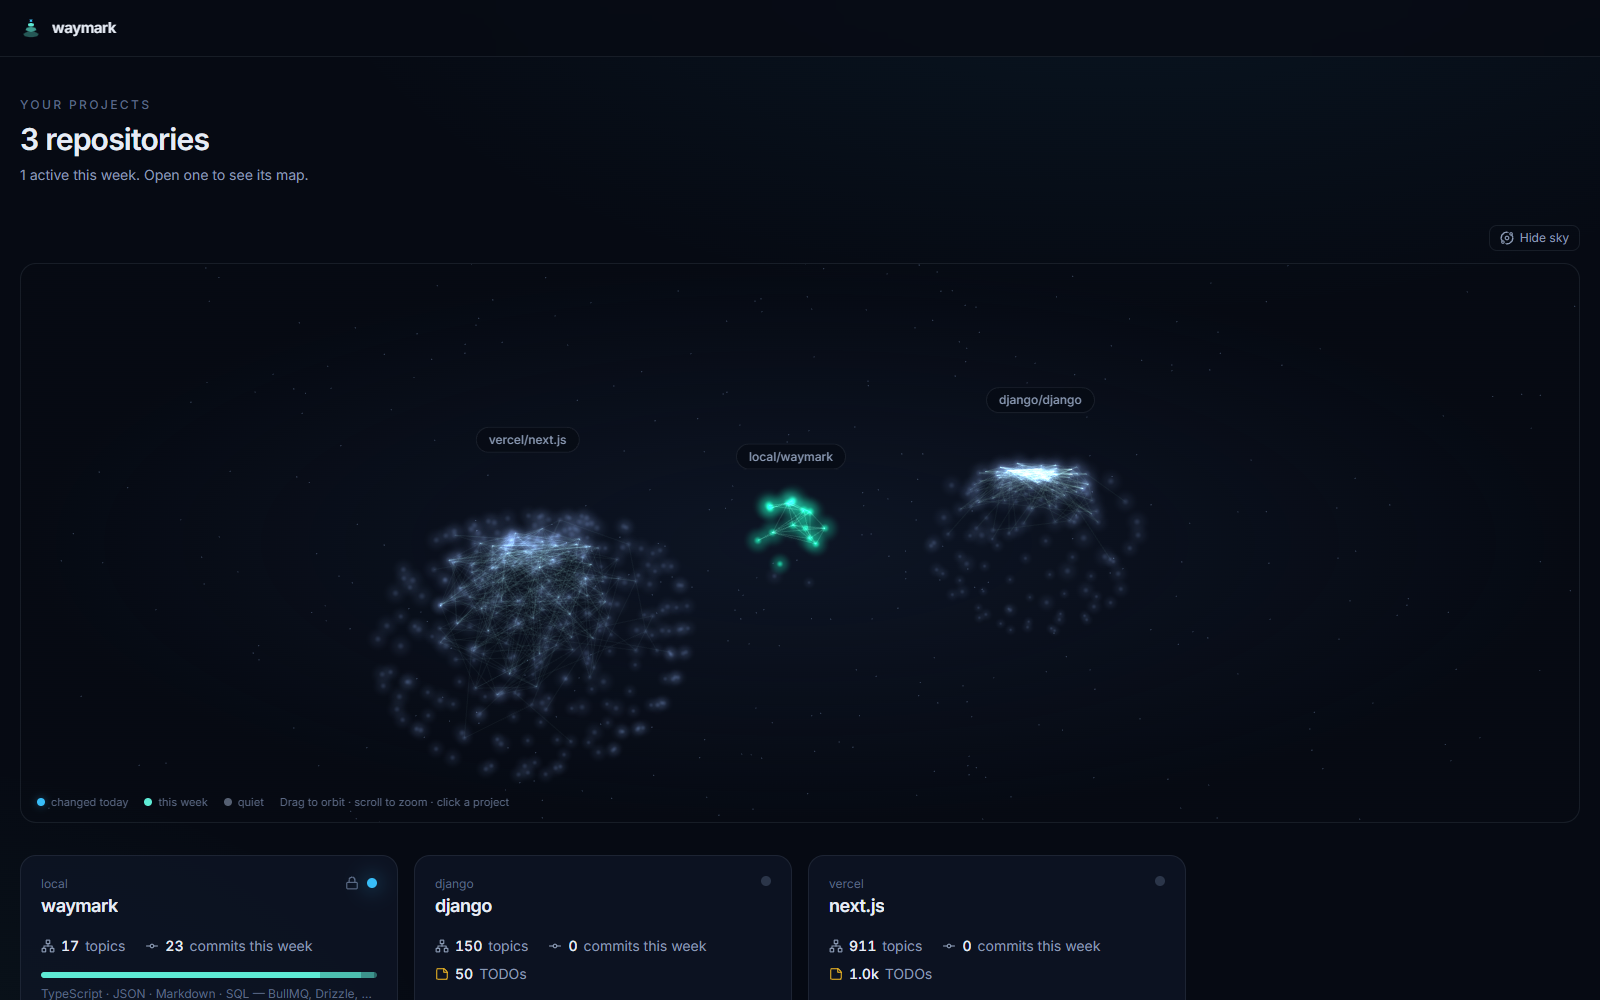
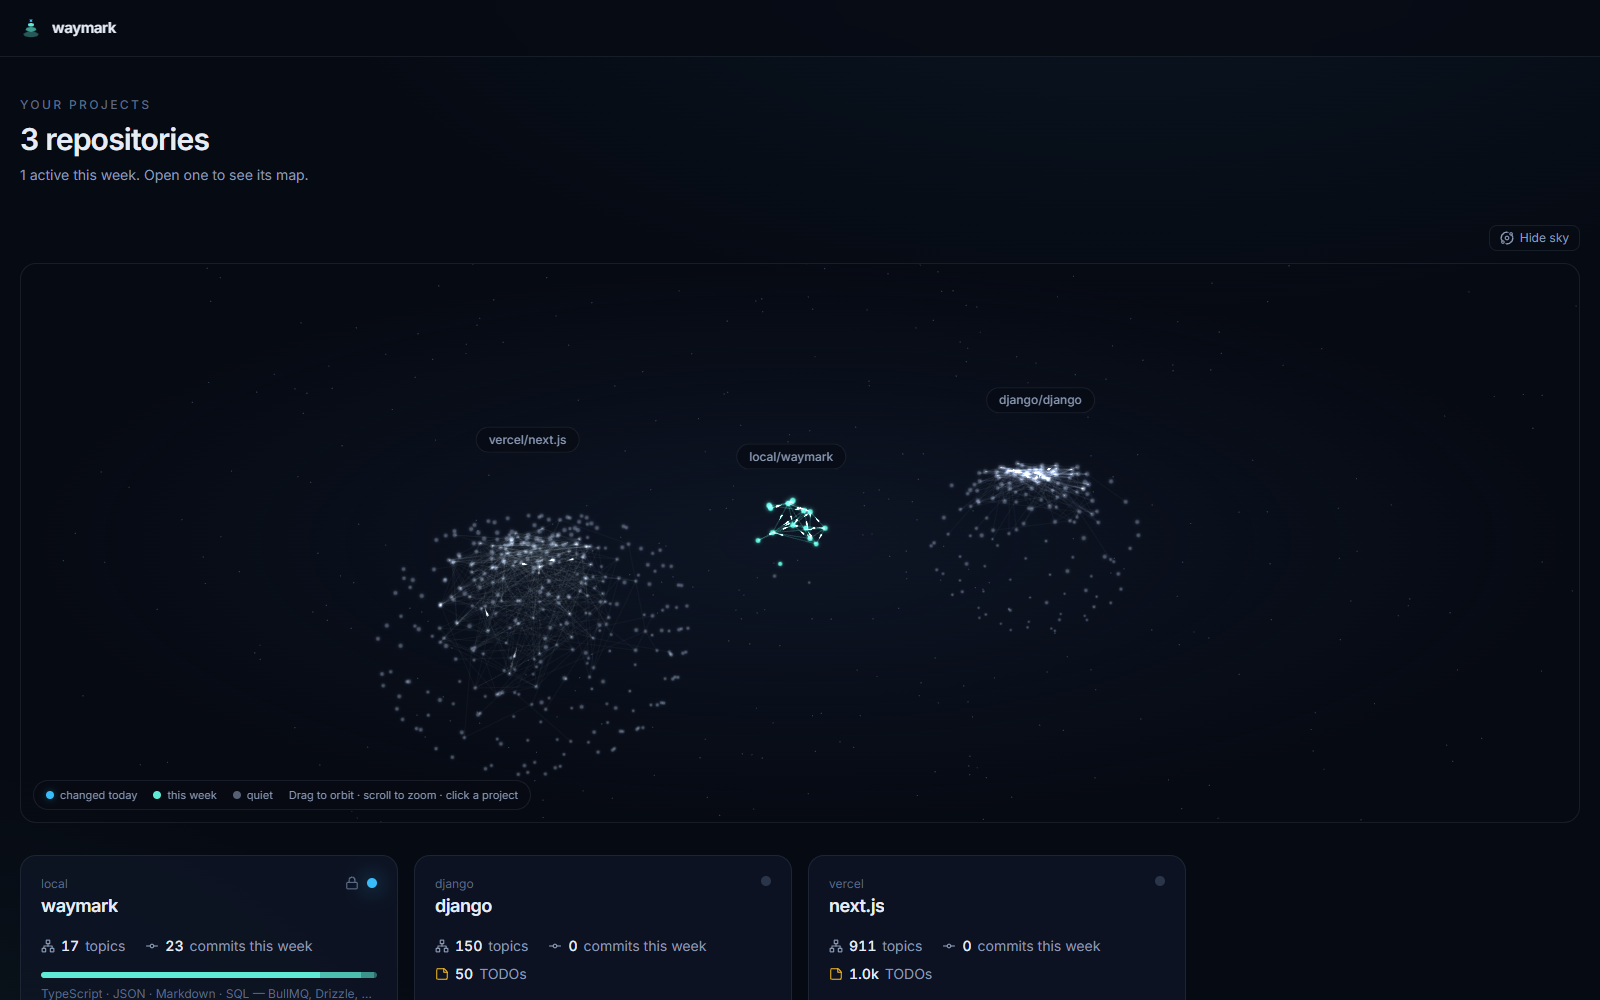
docs: describe the sky's signals and rendering

diff --git a/README.md b/README.md
@@ -62,7 +62,8 @@ reasoning behind each decision, is in [docs/ARCHITECTURE.md](docs/ARCHITECTURE.m
 | <img src="docs/images/map-django.png" alt="django/django: 150 AI-named topics grouped by directory, live import edges"> | <img src="docs/images/topic-panel.png" alt="Topic panel: AI summary, dependencies, TODOs, recent commits, files"> |
 
 The welcome screen shows every project as a constellation: one star per topic, glowing where you
-worked today or this week; drag to orbit, click a project to open its map.
+worked today or this week, with signals running along the imports from where work happened. Drag
+to orbit, click a project to open its map.
 
 Each project is a map: topics are nodes, imports are edges, and topics changed in the last day or
 week glow. Large repositories open as a handful of regions (packages, or directories inside one)
@@ -153,7 +154,7 @@ browser):
 
 | Quality gate | Value |
 |---|---|
-| Unit tests | 295 (no infrastructure required), incl. timed adversarial-input regressions |
+| Unit tests | 301 (no infrastructure required), incl. timed adversarial-input regressions |
 | Integration tests | 40 (real Postgres + Redis, in a separate `<db>_test` database; incl. failure recovery, index scheduling, topic building, budget across workers, dashboard read models) |
 | Type safety | `strict` + `noUncheckedIndexedAccess` + `exactOptionalPropertyTypes` |
 | Build step | none: Node runs the TypeScript sources directly |

diff --git a/docs/ARCHITECTURE.md b/docs/ARCHITECTURE.md
@@ -388,6 +388,11 @@ The layout is pure and deterministic (`constellation.ts`), so a project keeps it
 - **Stars** fill a ball evenly, largest at the inner part. Linked stars are drawn together by springs
   with a rest length, and a hub's pull is divided by its link count, so a topic that everything
   imports doesn't swallow its neighbours into one white blot.
+- **Signals** run along links as short streaks, from the end that changed most recently outward:
+  fast and bright where work happened today, calmer this week; a quiet project keeps up to 10
+  slow ones. Links take the colour of their ends, glowing where work is and fading into quiet.
+  Stars are crisp discs with a short glow, antialiased in the shader (no canvas supersampling),
+  sized by the screen's pixel ratio and capped so flying into a cluster never floods the screen.
 - **Labels** are real links positioned over their clusters every frame and pushed apart where they
   would overlap, so the sky is usable by keyboard and screen readers.
 - **Fallbacks:** without WebGL there is no sky; with `prefers-reduced-motion` it starts hidden (and
